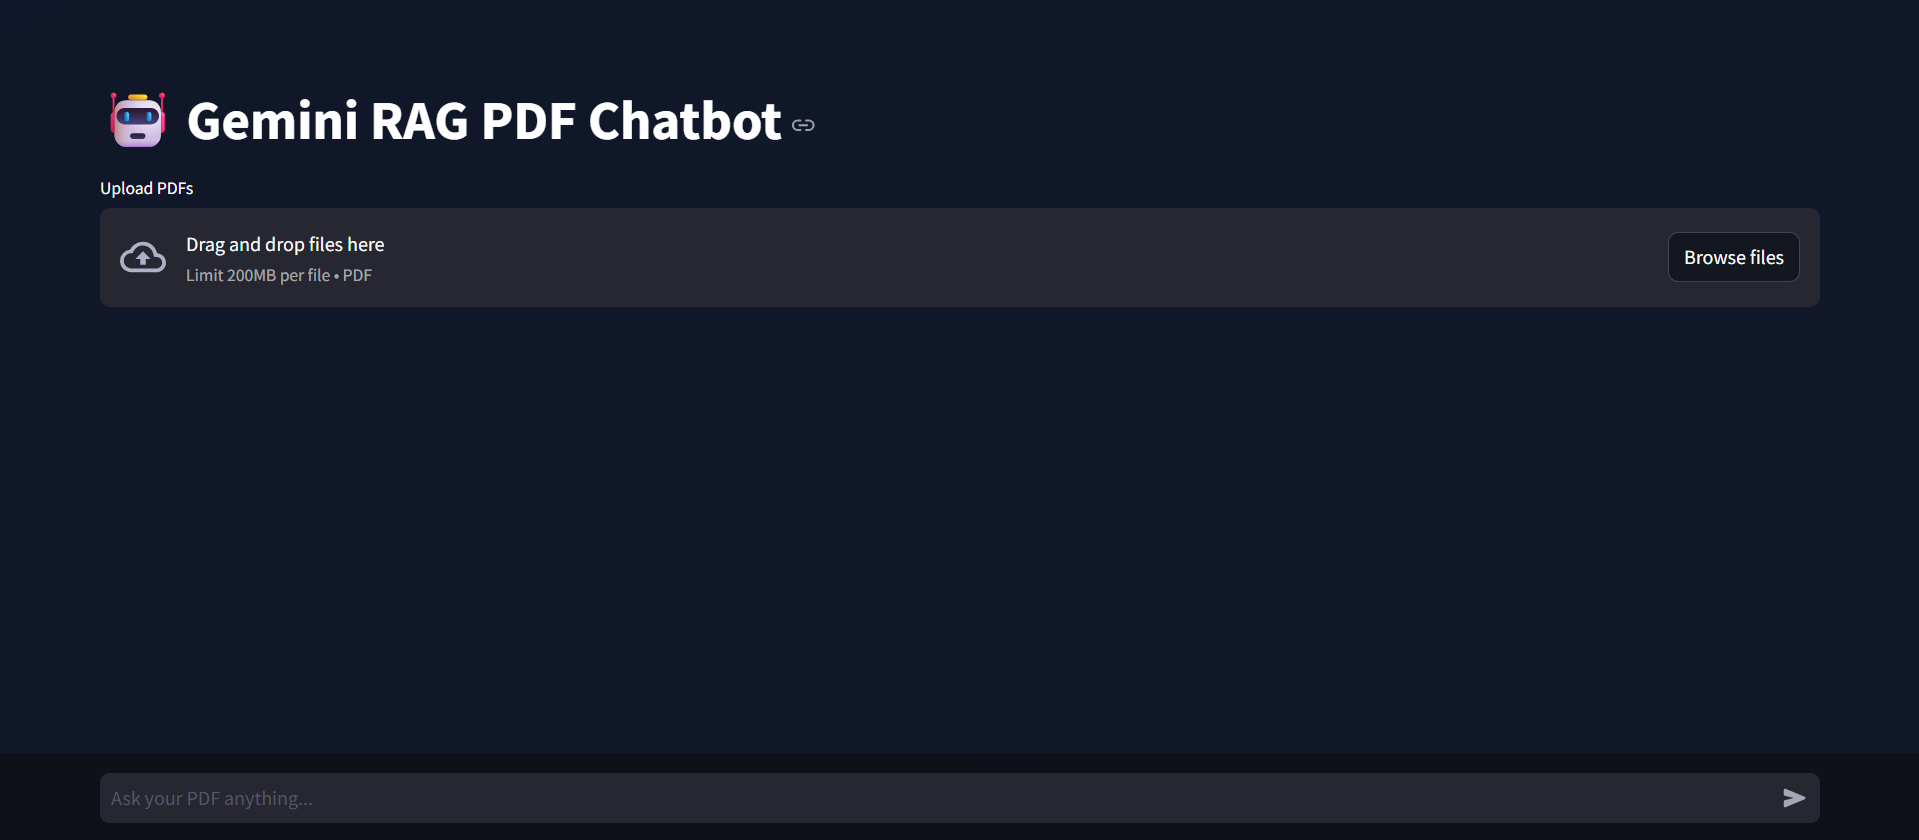
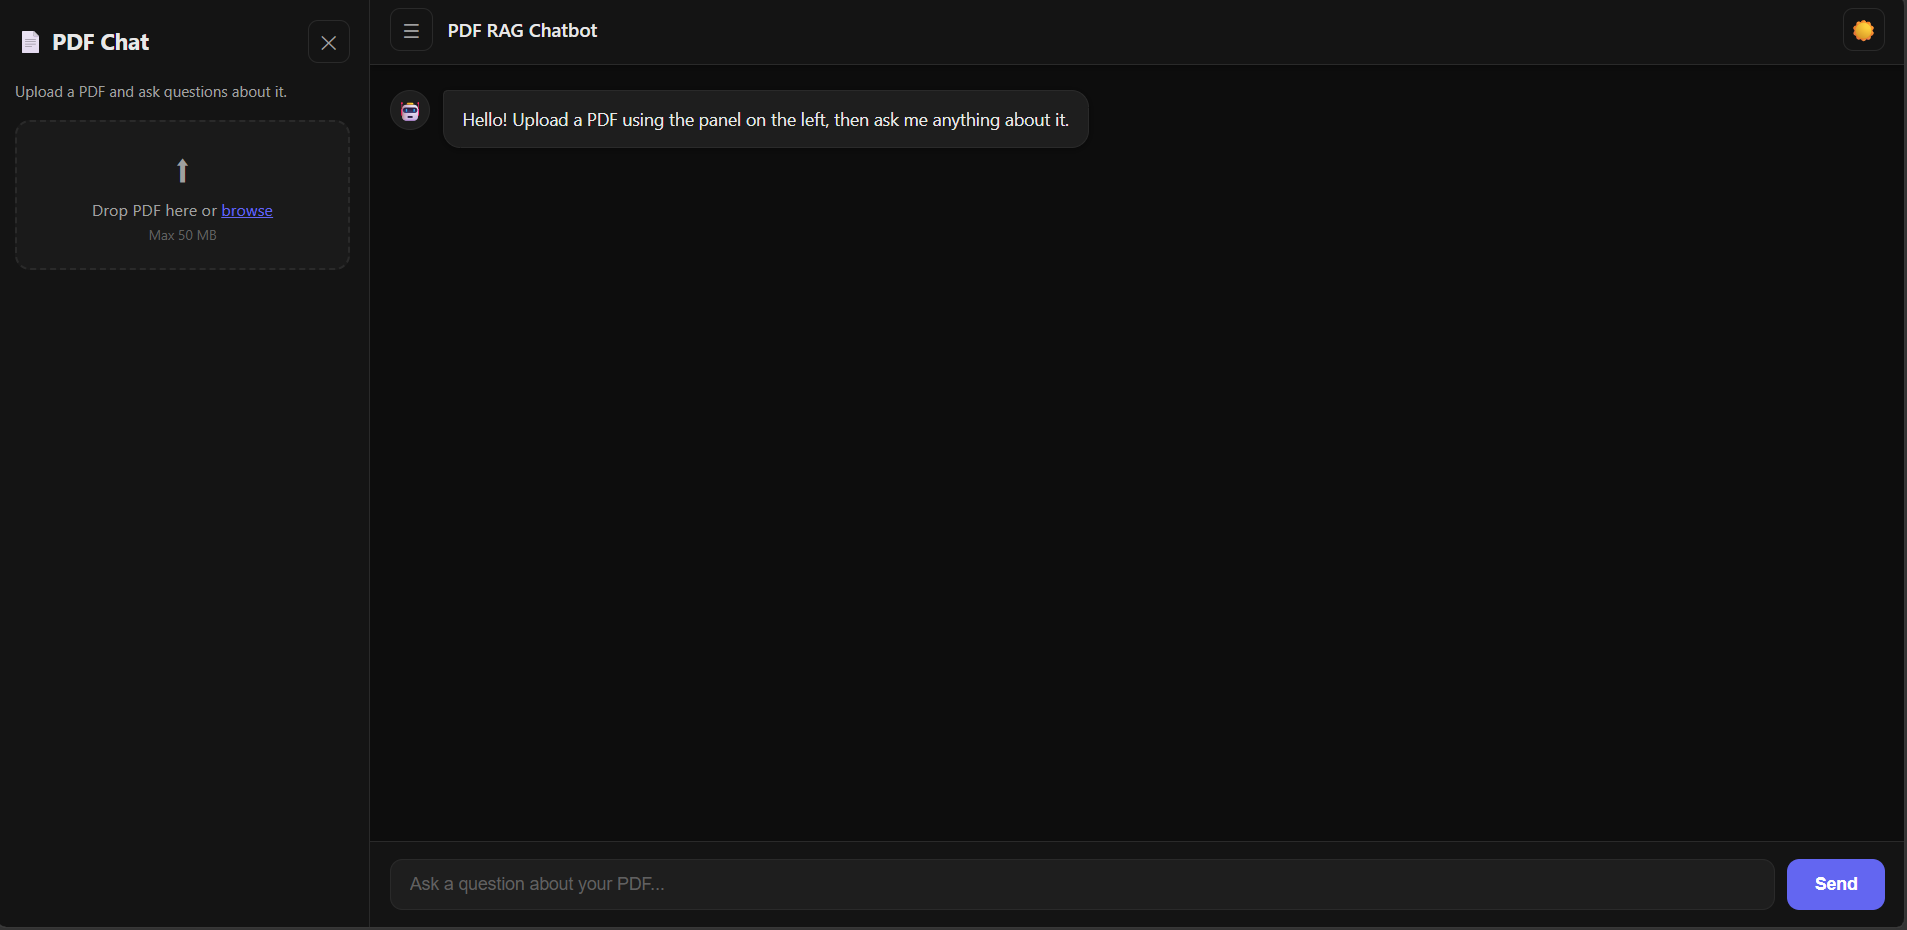
image update

diff --git a/src/constants/index.js b/src/constants/index.js
@@ -10,7 +10,7 @@ export const myProjects = [
     ],
     href: "https://github.com/varunkm11/RAG-PDF-CHATBOT", // Replace with your actual GitHub repo URL
     logo: "",
-    image: "/assets/projects/Rag_Bot.png",
+    image: "/assets/projects/Rag_bot.png",
     tags: [
       {
         id: 1,
